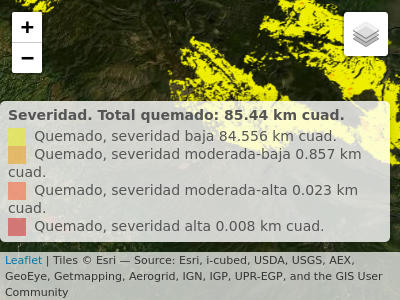
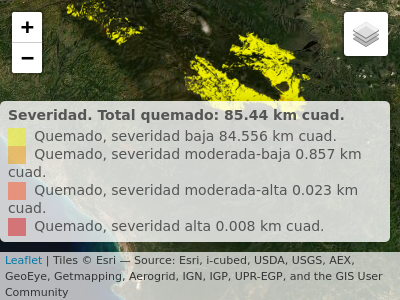
ADD html version

diff --git a/README.md b/README.md
@@ -21,7 +21,6 @@ BURN RATIO
 realicé un análisis de la severidad de quemado en dicho incendio usando
 el diferencial del índice normalizado de quema (dNBR). Adapté el
 *script* fuente a la colección más reciente de imágenes Landsat 8 y 9.
-
 La web está repleta de recursos sobre esta técnica, recomiendo [esta
 particularmente](https://un-spider.org/es/node/10959). Como resultado
 del análisis aplicado a la sierra de Bahoruco, estimé unos 85
@@ -140,8 +139,8 @@ leaflet() %>%
     values = slot(dnbr_rcl_q@data, 'attributes')[[1]]$leyenda,
     position = 'bottomright') %>% 
   setView(
-    lat = mean(extent(dnbr)[3:4])-0.05,
-    lng = mean(extent(dnbr)[1:2]), zoom=11) %>% 
+    lat = mean(extent(dnbr)[3:4])-0.1,
+    lng = mean(extent(dnbr)[1:2]), zoom=10) %>% 
   suppressWarnings()
 ```
 
